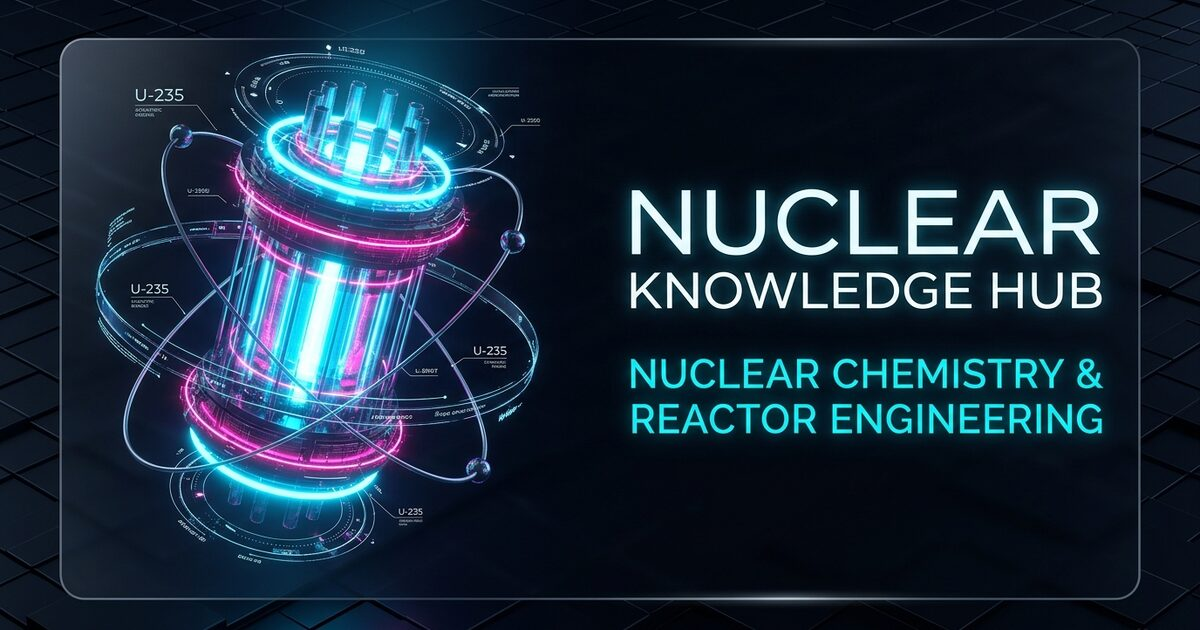
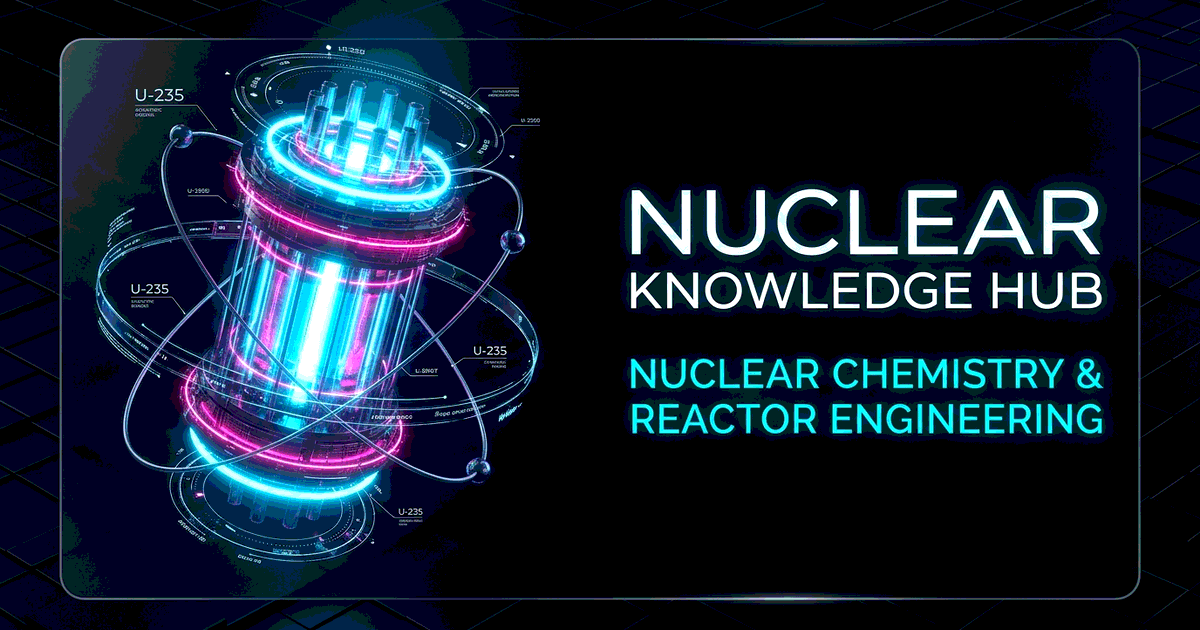
refactor: improve layout stability and routing
Update global CSS and App layout to prevent horizontal overflow. Reorganize Vercel routing rules and update the Open Graph asset.

diff --git a/src/components/Footer.tsx b/src/components/Footer.tsx
@@ -181,11 +181,14 @@ export function Footer({ onTabChange, language }: FooterProps) {
       </div>
 
       {/* Live Open Graph Social Preview Card & One-Click Share Hub */}
-      <div className="max-w-[1240px] mx-auto mb-12 rounded-2xl border border-[#00e8f5]/30 bg-[#070d18]/90 p-5 sm:p-7 shadow-[0_0_45px_rgba(0,232,245,0.12)]">
+      <div
+        id="og-preview-card"
+        className="max-w-[1240px] mx-auto mb-12 rounded-2xl border border-[#00e8f5]/30 bg-[#070d18]/90 p-5 sm:p-7 shadow-[0_0_45px_rgba(0,232,245,0.12)]"
+      >
         <div className="grid grid-cols-1 lg:grid-cols-12 gap-6 items-center">
           {/* Live Social Card Preview (Exact WhatsApp / Facebook / X / Telegram Card Layout) */}
           <div className="lg:col-span-6">
-            <div className="nuclear-visual overflow-hidden rounded-xl border border-[#00e8f5]/40 bg-[#05080f] shadow-xl">
+            <div className="relative overflow-hidden rounded-xl border border-[#00e8f5]/40 bg-[#05080f] shadow-xl">
               <div className="relative aspect-[1200/630] w-full overflow-hidden bg-[#05080f]">
                 <img
                   src={ogBannerImg}

diff --git a/src/App.tsx b/src/App.tsx
@@ -622,7 +622,7 @@ export default function App() {
   };
 
   return (
-    <div className="relative min-h-[100dvh] bg-[var(--bg-main)] text-[var(--ink)] flex flex-col font-sans selection:bg-[#00e5ff]/30 selection:text-white">
+    <div className="relative min-h-[100dvh] w-full max-w-[100vw] overflow-x-hidden bg-[var(--bg-main)] text-[var(--ink)] flex flex-col font-sans selection:bg-[#00e5ff]/30 selection:text-white">
       {/* Animated Nuclear Chemistry Background Layer */}
       <NuclearBackgroundCanvas />
 

diff --git a/src/index.css b/src/index.css
@@ -387,6 +387,8 @@ article:hover,
 }
 
 .nuclear-visual {
+  position: relative;
+  overflow: hidden;
   isolation: isolate;
   background: #07101c;
 }
